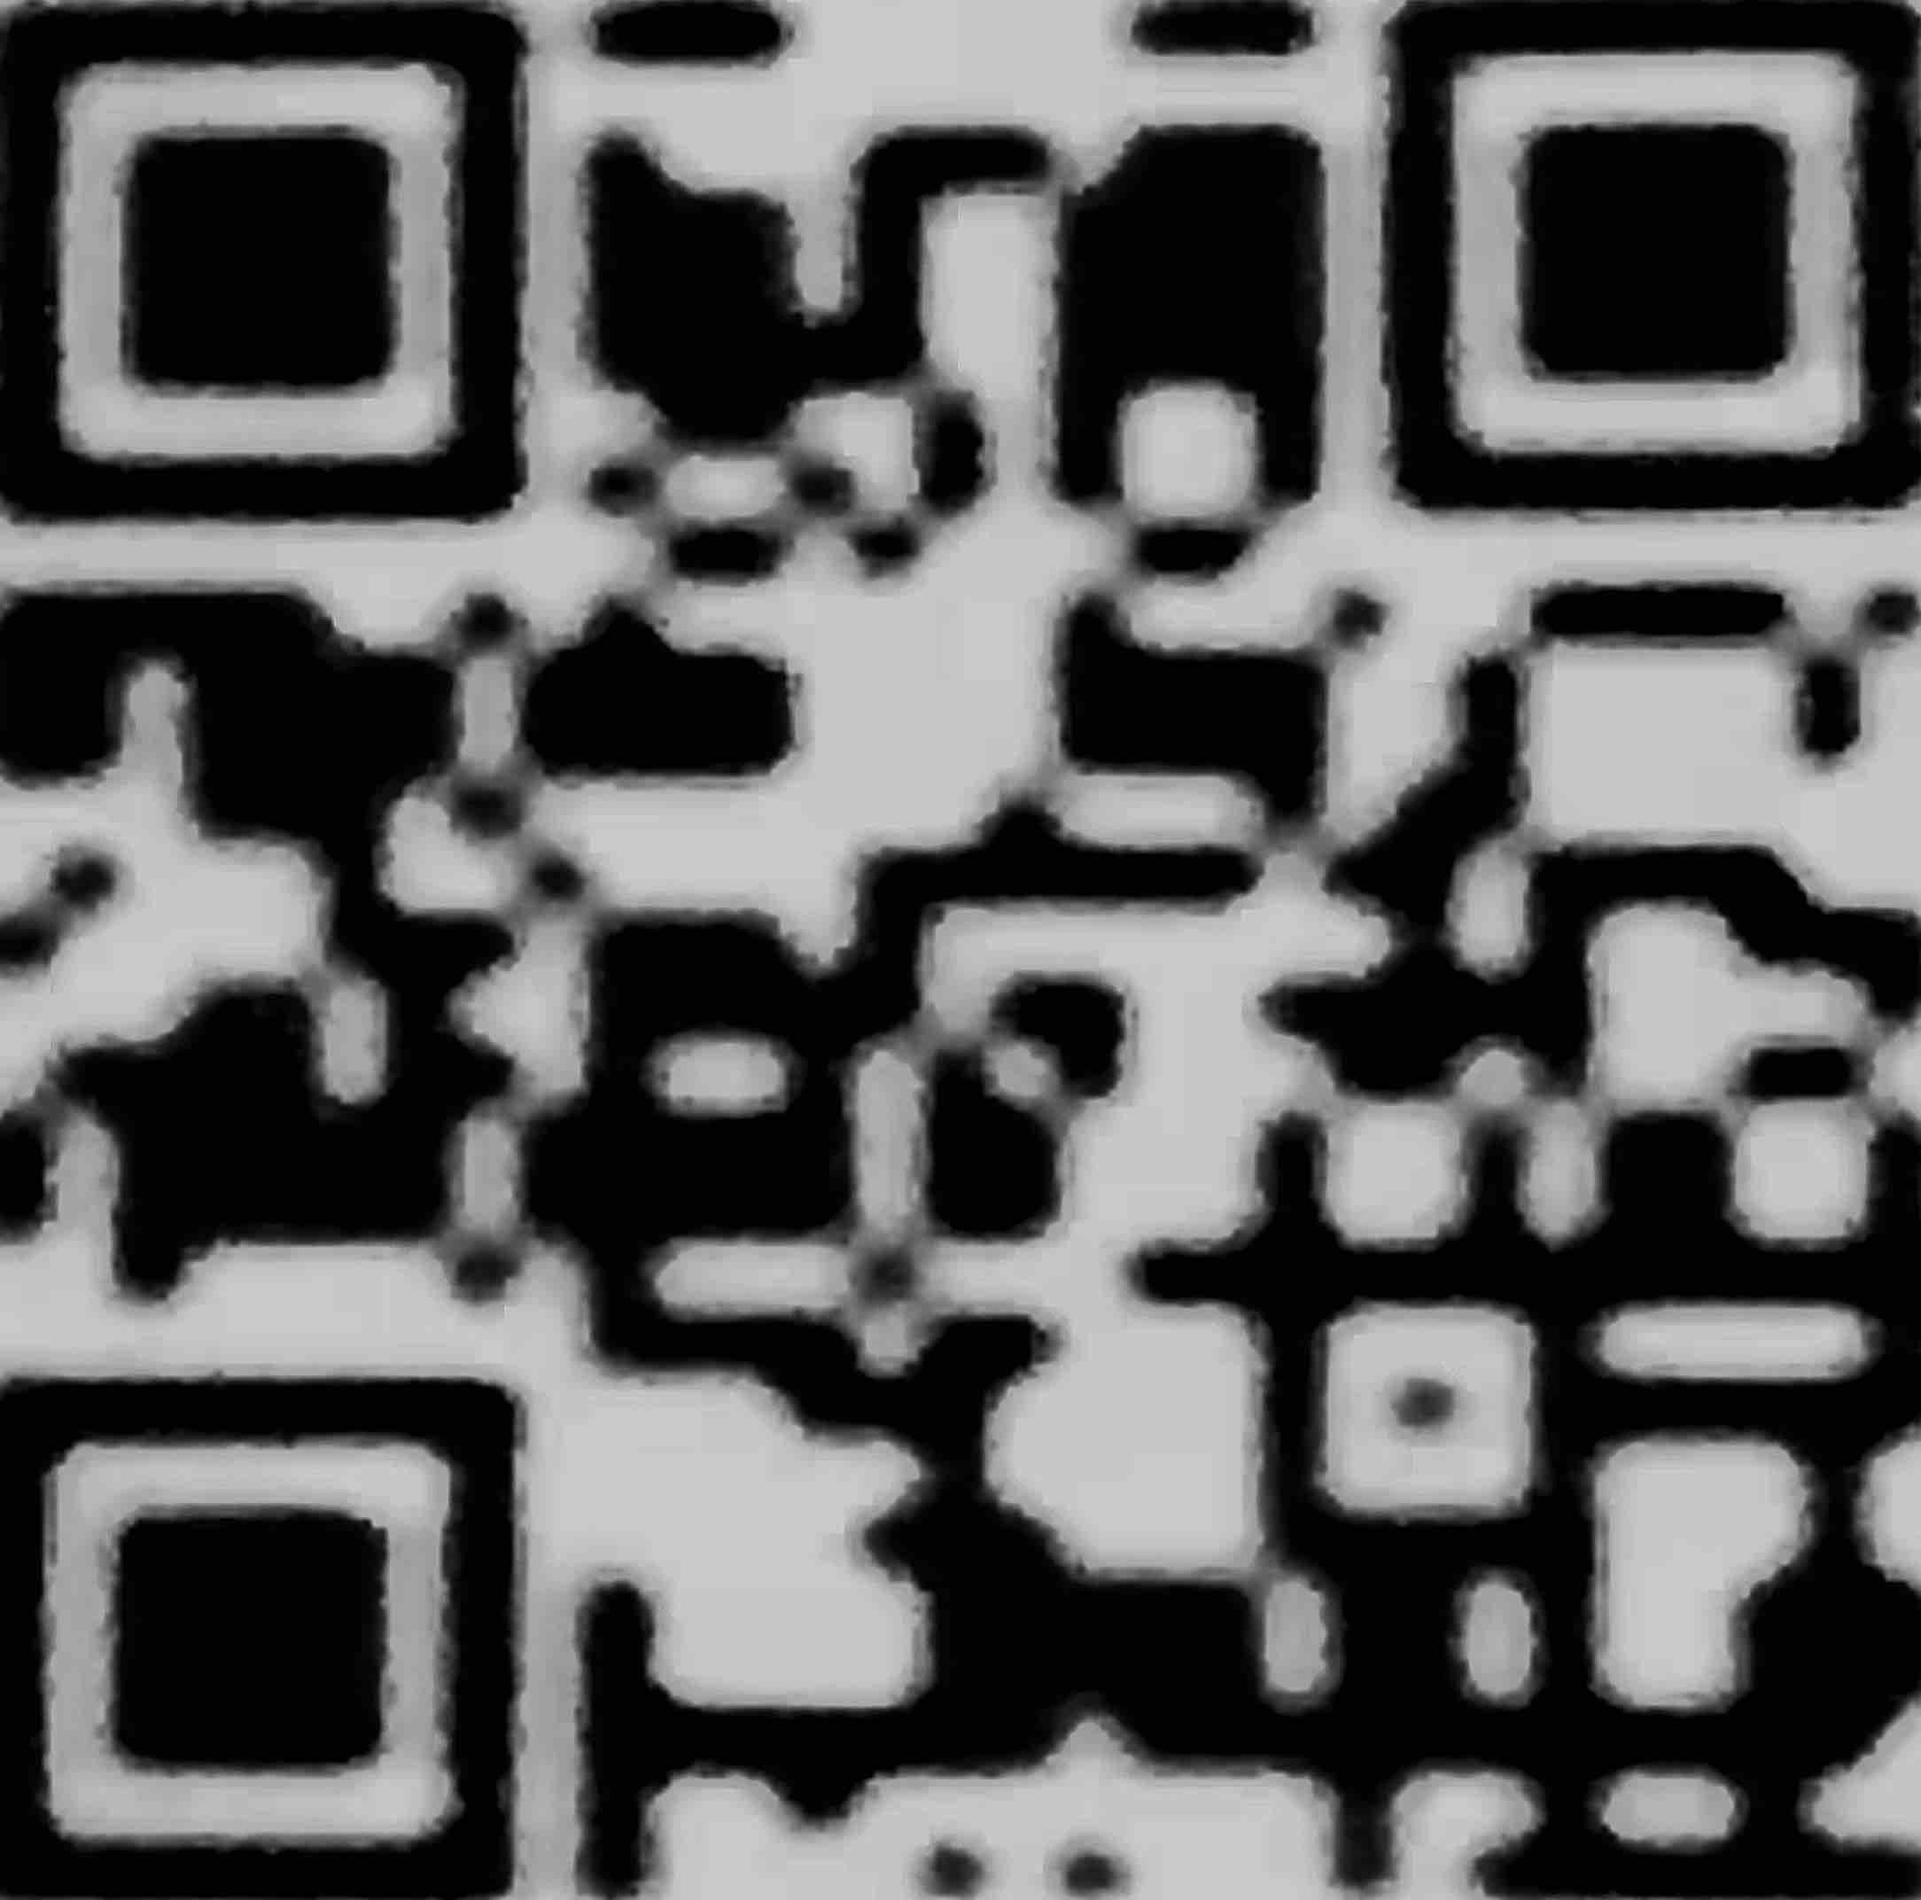
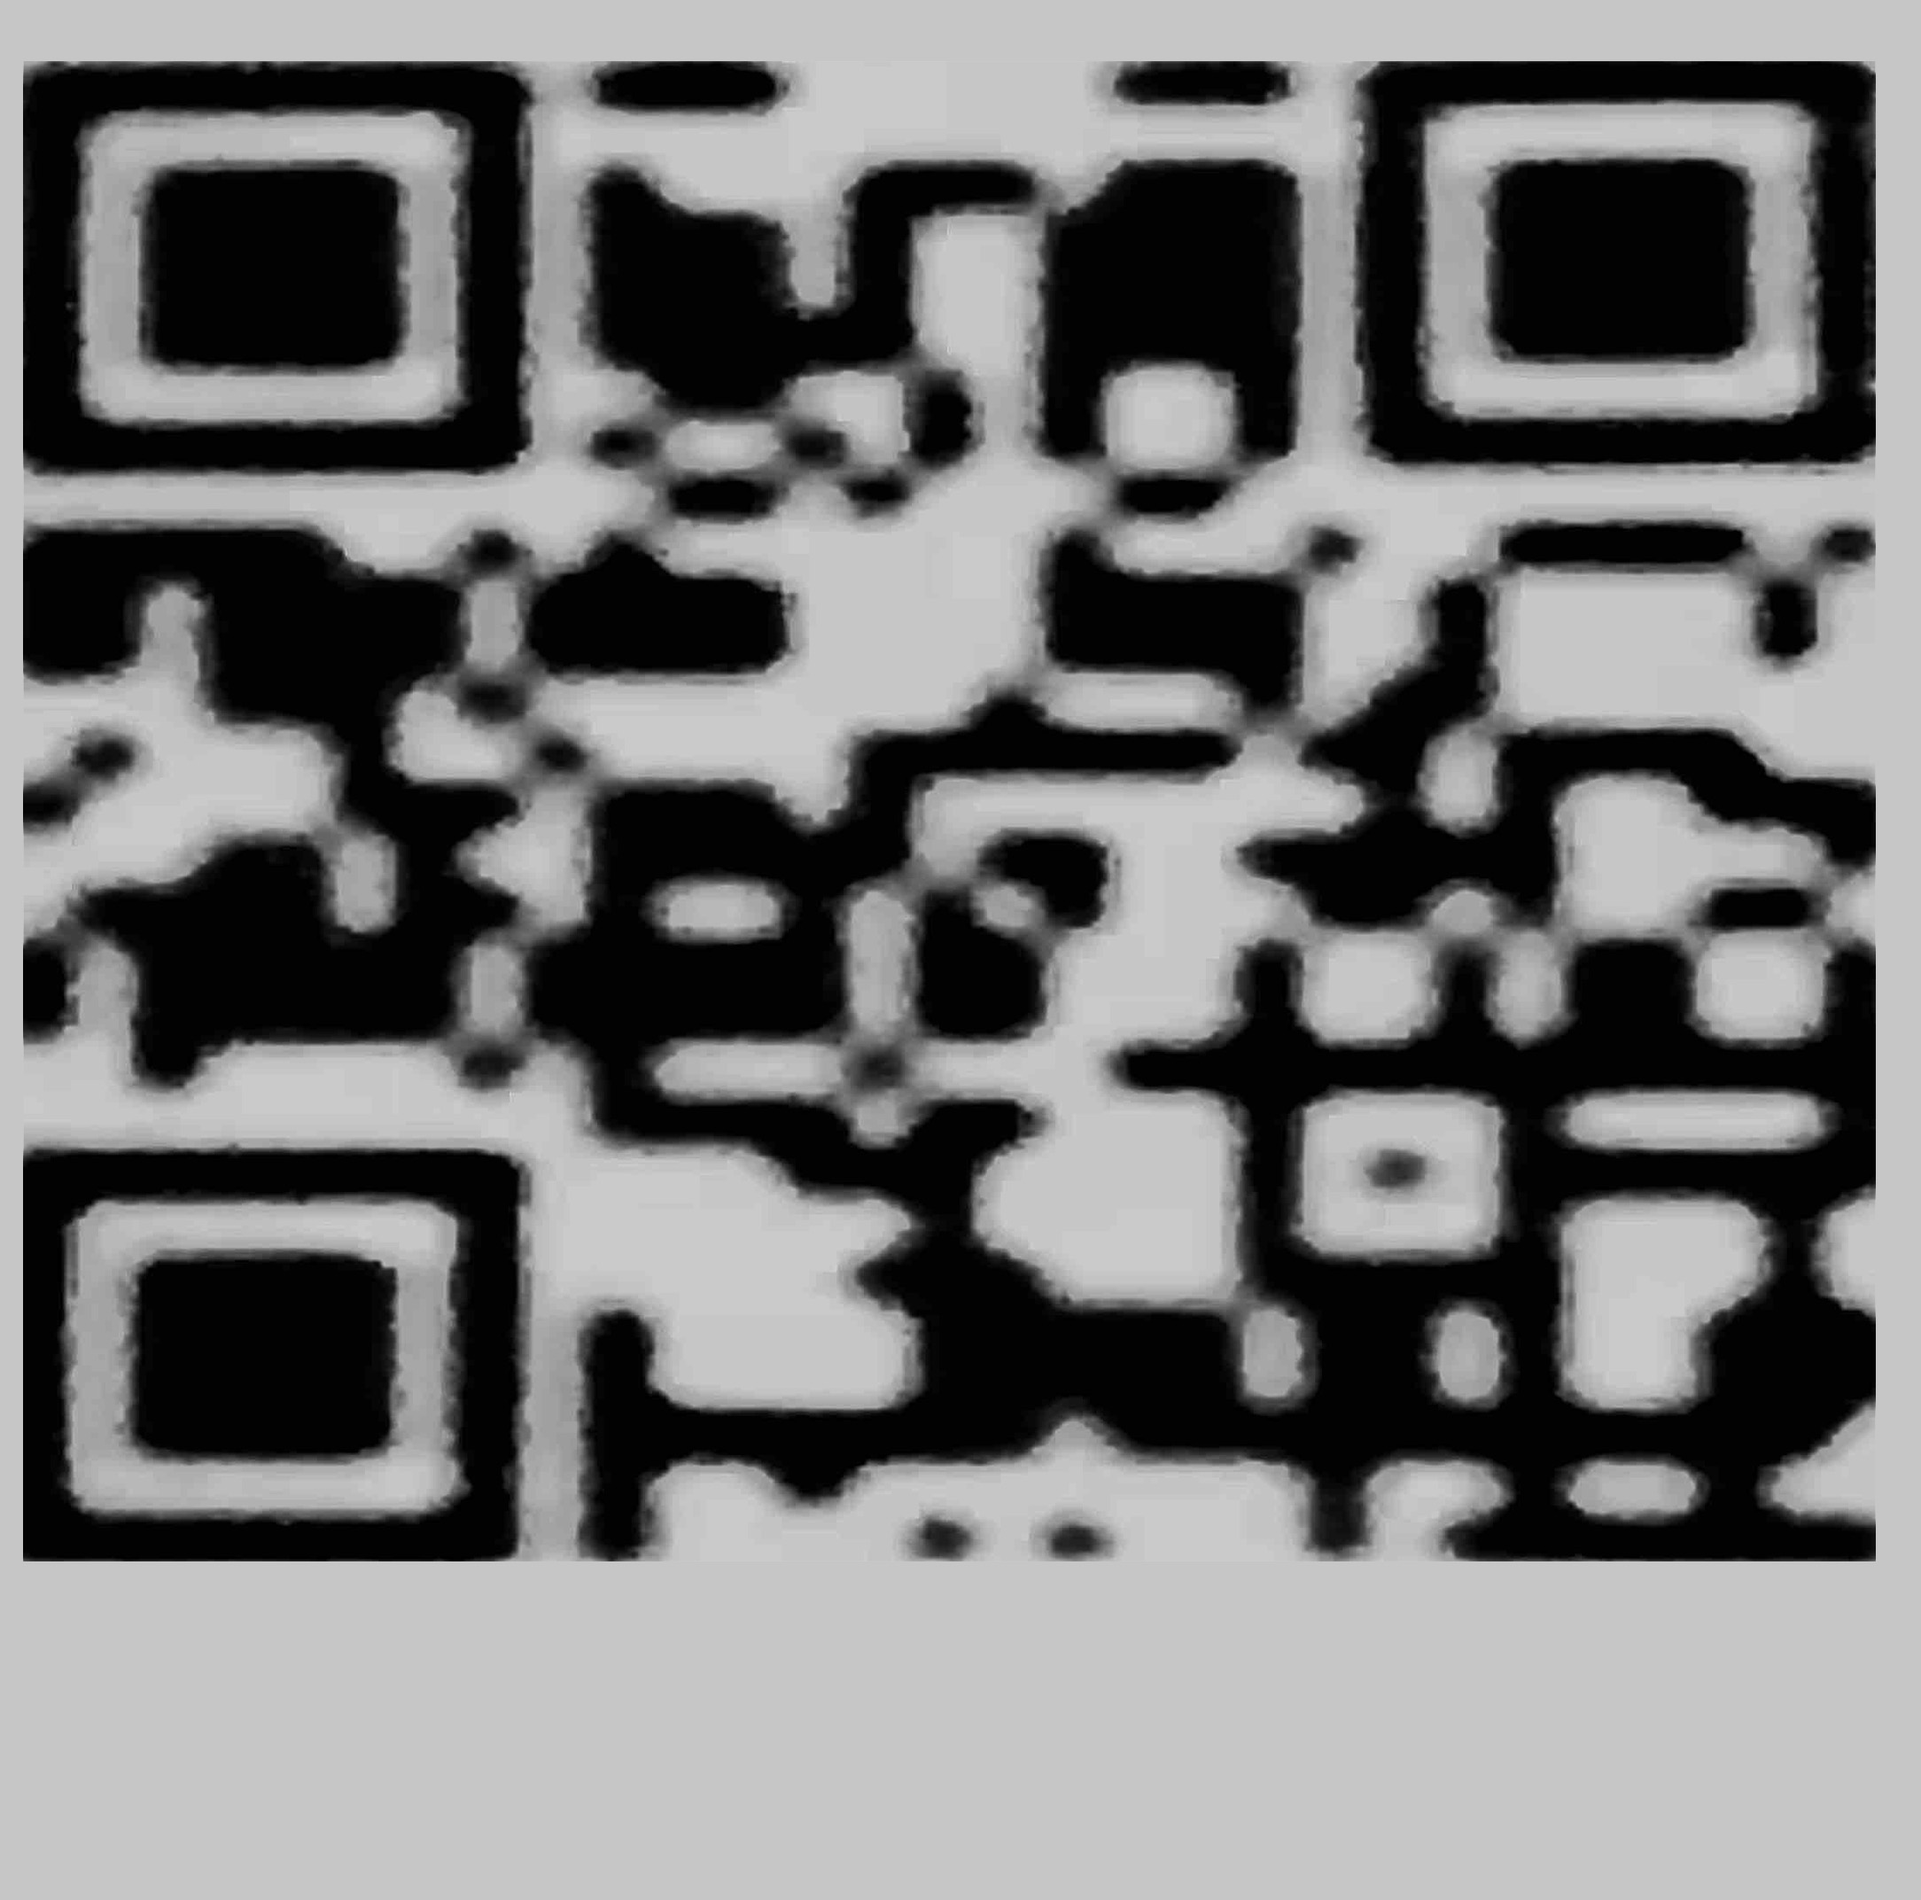
update README

diff --git a/qr_sharpener.py b/qr_sharpener.py
@@ -130,7 +130,7 @@ class QRSharpener:
         data, bbox, straight_qrcode = detector.detectAndDecode(self.img_orig)
 
         # if there is a QR code
-        if bbox is not None:
+        if straight_qrcode is not None:
             self.qr_dim = straight_qrcode.shape[0]
             self.img_qr_cv2 = straight_qrcode
 

diff --git a/README.md b/README.md
@@ -37,7 +37,7 @@ Options:
 
 ## Test case 1
 
-Input photo is a unprocessed photo taken by phone.
+The input photo is a unprocessed photo taken by phone.
 
 ![Input photo](assets/test.jpeg)
 
@@ -59,7 +59,7 @@ Finally, the program outputs the recreated QR code:
 
 ## Test case 2
 
-Input is a blury photo of a QR code, provided [here](https://github.com/haraldF/qrsharpener/tree/master).
+The input is a blury photo of a QR code, provided [here](https://github.com/haraldF/qrsharpener/tree/master). Some modifications including adding white borders and transforming to rectangular shape have been applied to the blurry QR code to make it even harder to recreate.
 
 ![Input](assets/test2.jpeg)
 
